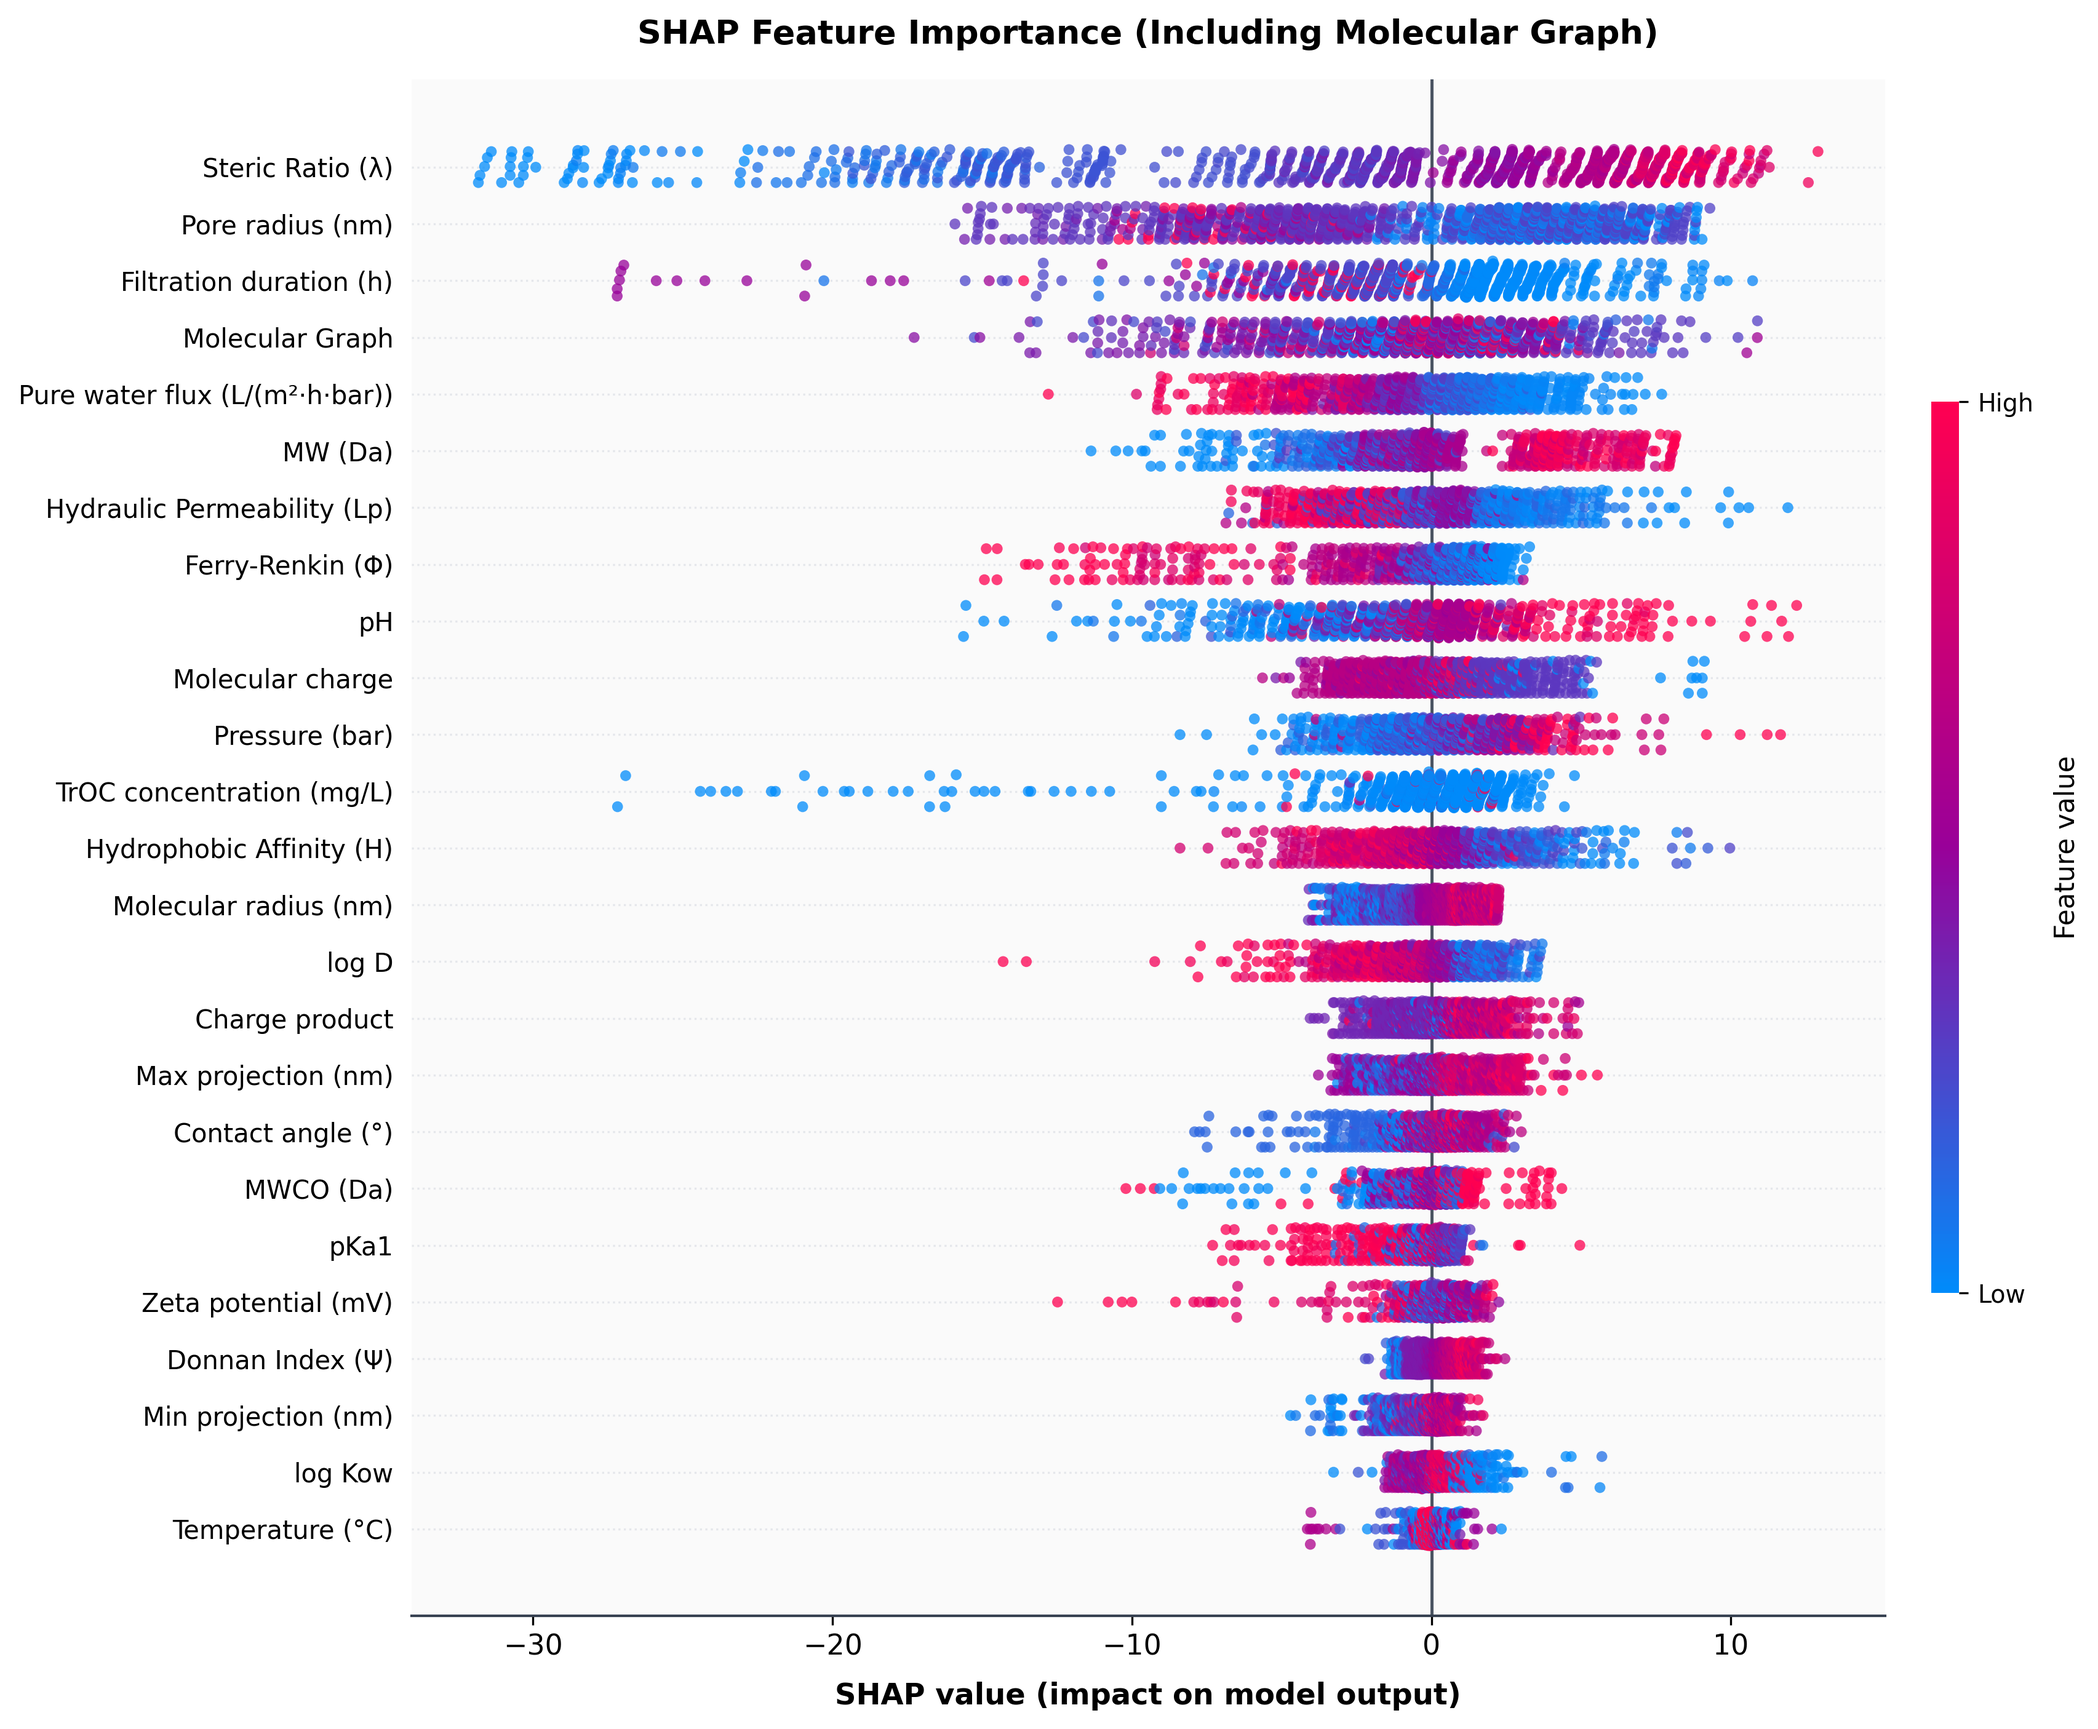
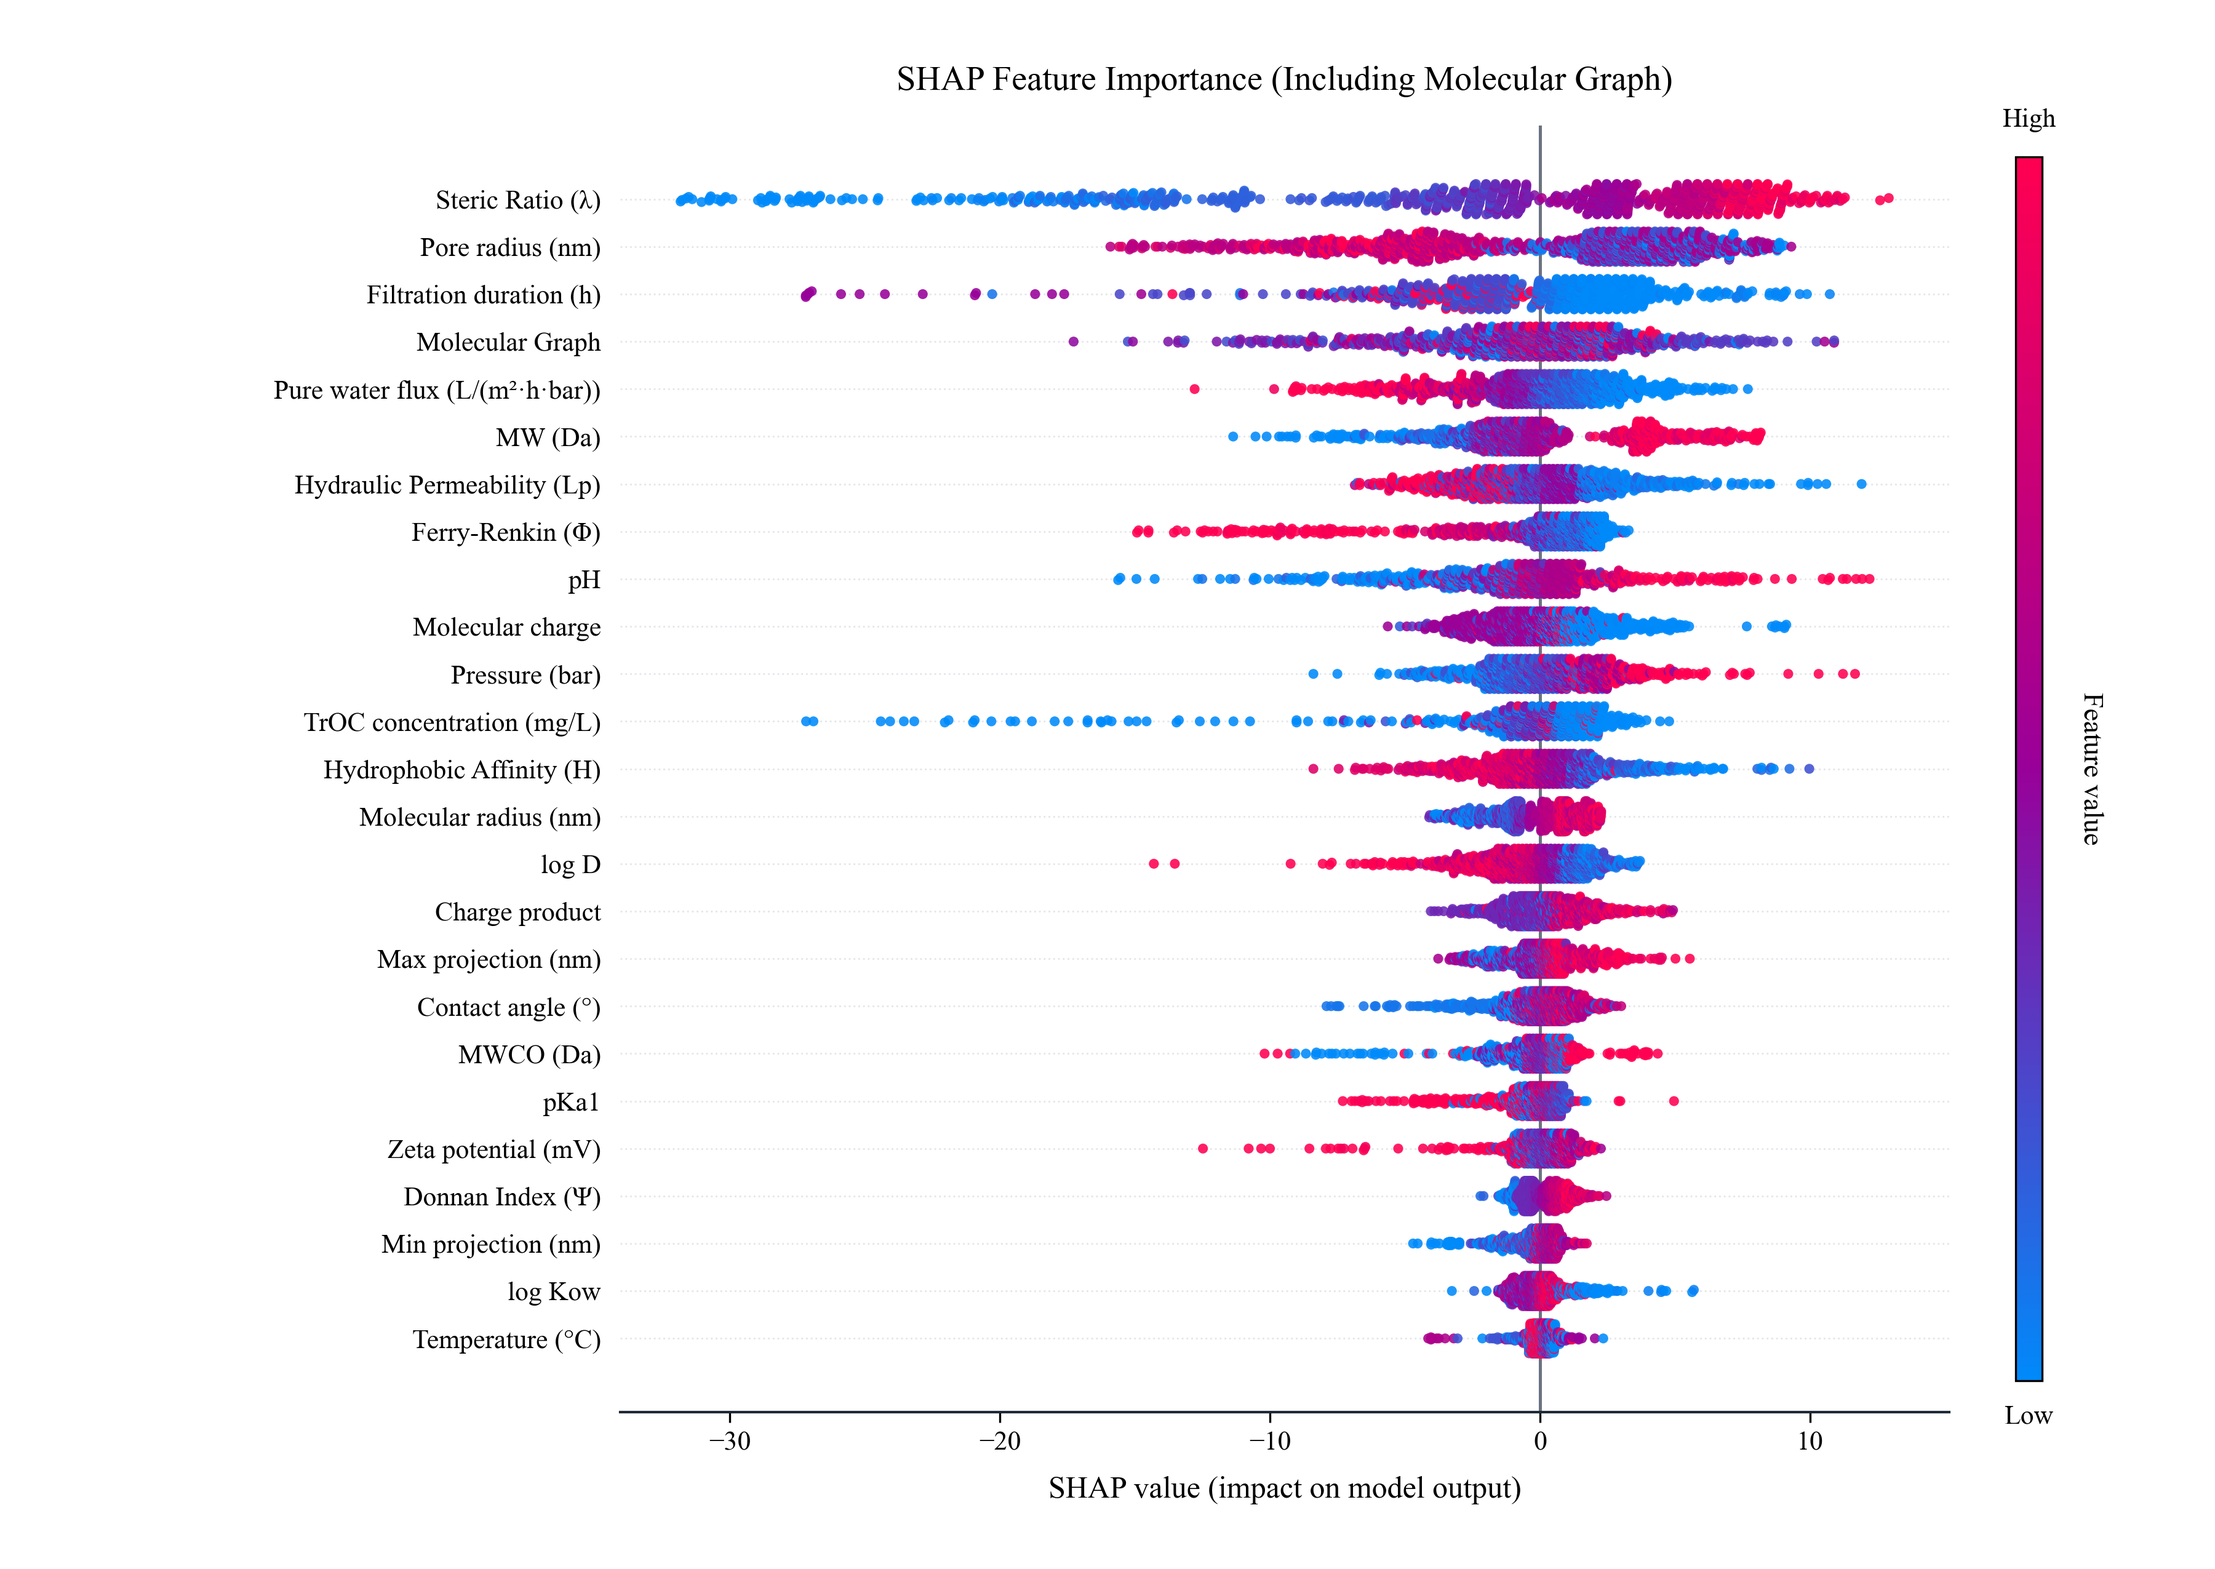
style(fig5): Match exact ACS ES&T Engineering Serif Beeswarm plot layout

diff --git a/src/generate_paper_figures.py b/src/generate_paper_figures.py
@@ -675,8 +675,8 @@ def generate_figure7(inf):
 # ==============================================================================
 
 def generate_figure5(data, models):
-    print("\n[Figure 5] SHAP Beeswarm Feature Importance (ACS ES&T Engineering Style) ...")
-    from matplotlib.colors import LinearSegmentedColormap
+    print("\n[Figure 5] SHAP Beeswarm Feature Importance (ACS ES&T Engineering Exact Style) ...")
+    from matplotlib.colors import LinearSegmentedColormap, Normalize
     import xgboost as xgb
     from rdkit import Chem, RDLogger
     from rdkit.Chem import AllChem
@@ -722,73 +722,95 @@ def generate_figure5(data, models):
     mean_abs = np.abs(shap_combined).mean(axis=0)
     order = np.argsort(mean_abs)[::-1]
 
-    # Custom SHAP Beeswarm Palette: Blue (Low) -> Purple -> Hot Pink / Red (High)
-    shap_cmap = LinearSegmentedColormap.from_list('shap_custom', ['#008BFB', '#990099', '#FF0051'], N=256)
+    # Official SHAP red-blue gradient
+    cdict = {
+        'red':   ((0.0, 0.0, 0.0), (0.5, 0.6, 0.6), (1.0, 1.0, 1.0)),
+        'green': ((0.0, 0.54, 0.54), (0.5, 0.0, 0.0), (1.0, 0.0, 0.0)),
+        'blue':  ((0.0, 0.98, 0.98), (0.5, 0.6, 0.6), (1.0, 0.32, 0.32))
+    }
+    shap_cmap = LinearSegmentedColormap('shap_official', cdict, N=256)
 
-    fig, ax = plt.subplots(figsize=(11.5, 9.5), dpi=DPI)
+    # Use serif font matching ACS ES&T
+    plt.rcParams['font.family'] = 'serif'
+    plt.rcParams['font.serif'] = ['Times New Roman', 'DejaVu Serif', 'Liberation Serif', 'Georgia']
+    plt.rcParams['mathtext.fontset'] = 'stix'
+
+    fig = plt.figure(figsize=(12, 8.8), dpi=DPI)
+    ax = fig.add_axes([0.28, 0.10, 0.60, 0.82])
+    cax = fig.add_axes([0.91, 0.12, 0.012, 0.78])
+
     n_samples = shap_combined.shape[0]
     n_feats = len(order)
 
+    # True beeswarm stacking
     for row_idx, f_idx in enumerate(reversed(order)):
         y_pos = row_idx
         sv = shap_combined[:, f_idx]
         fv = feat_combined[:, f_idx]
 
-        f_min, f_max = np.percentile(fv, 2), np.percentile(fv, 98)
+        f_min, f_max = np.percentile(fv, 5), np.percentile(fv, 95)
         if f_max > f_min:
             norm_val = np.clip((fv - f_min) / (f_max - f_min), 0, 1)
         else:
             norm_val = np.full_like(fv, 0.5)
 
-        sort_i = np.argsort(sv)
-        sv_s = sv[sort_i]
-        norm_s = norm_val[sort_i]
+        sort_idx = np.argsort(sv)
+        sv_sorted = sv[sort_idx]
+        norm_sorted = norm_val[sort_idx]
+
+        nbins = 120
+        hist, bin_edges = np.histogram(sv_sorted, bins=nbins)
+        bin_assignments = np.digitize(sv_sorted, bin_edges) - 1
+        bin_assignments = np.clip(bin_assignments, 0, nbins - 1)
 
         y_offsets = np.zeros(n_samples)
-        bins = np.linspace(sv_s.min() - 1e-5, sv_s.max() + 1e-5, 80)
-        bin_idx = np.digitize(sv_s, bins)
-        for b in np.unique(bin_idx):
-            mask = (bin_idx == b)
-            count = np.sum(mask)
-            if count > 1:
-                offsets = np.linspace(-0.28, 0.28, count)
-                offsets += np.random.RandomState(42).normal(0, 0.02, count)
-                y_offsets[mask] = np.clip(offsets, -0.35, 0.35)
+        for b in range(nbins):
+            pts_in_b = np.where(bin_assignments == b)[0]
+            k = len(pts_in_b)
+            if k == 1:
+                y_offsets[pts_in_b[0]] = 0
+            elif k > 1:
+                spread = min(0.32, k * 0.012)
+                y_offsets[pts_in_b] = np.linspace(-spread, spread, k)
 
-        ax.axhline(y_pos, color='#E5E7EB', linestyle=':', lw=0.8, zorder=1)
-        ax.scatter(sv_s, y_pos + y_offsets, c=norm_s, cmap=shap_cmap,
-                   s=18, alpha=0.75, edgecolors='none', zorder=3)
+        ax.axhline(y_pos, color='#E5E7EB', linestyle=':', lw=0.7, zorder=1)
+        ax.scatter(sv_sorted, y_pos + y_offsets, c=norm_sorted, cmap=shap_cmap,
+                   s=15, alpha=0.88, edgecolors='none', zorder=3)
 
-    ax.axvline(0, color='#4B5563', linestyle='-', lw=1.2, zorder=2)
+    ax.axvline(0, color='#6B7280', linestyle='-', lw=1.2, zorder=2)
 
     ordered_names = [feat_names[i] for i in reversed(order)]
     ax.set_yticks(range(n_feats))
-    ax.set_yticklabels(ordered_names, fontsize=10, fontweight='medium')
-    ax.set_xlabel('SHAP value (impact on model output)', fontsize=11.5, fontweight='bold', labelpad=8)
-    ax.set_title('SHAP Feature Importance (Including Molecular Graph)', fontsize=13, fontweight='bold', pad=14)
+    ax.set_yticklabels(ordered_names, fontsize=11, fontfamily='serif')
+    ax.set_xlabel('SHAP value (impact on model output)', fontsize=12, fontfamily='serif', fontweight='normal', labelpad=8)
+    ax.set_title('SHAP Feature Importance (Including Molecular Graph)', fontsize=13.5, fontfamily='serif', fontweight='normal', pad=14)
 
     ax.spines['top'].set_visible(False)
     ax.spines['right'].set_visible(False)
     ax.spines['left'].set_visible(False)
-    ax.spines['bottom'].set_color('#374151')
+    ax.spines['bottom'].set_color('#1F2937')
     ax.spines['bottom'].set_linewidth(1.0)
-    ax.tick_params(left=False)
+    ax.tick_params(left=False, direction='out', length=4, labelsize=10.5)
 
-    sm = plt.cm.ScalarMappable(cmap=shap_cmap, norm=Normalize(0, 1))
-    sm.set_array([])
-    cbar = fig.colorbar(sm, ax=ax, orientation='vertical', fraction=0.018, pad=0.03, aspect=32)
-    cbar.set_ticks([0, 1])
-    cbar.set_ticklabels(['Low', 'High'], fontsize=9.5, fontweight='medium')
-    cbar.set_label('Feature value', fontsize=10.5, fontweight='medium', labelpad=8)
-    cbar.outline.set_visible(False)
+    norm = Normalize(0, 1)
+    matplotlib.colorbar.ColorbarBase(cax, cmap=shap_cmap, norm=norm, orientation='vertical')
+    cax.set_yticks([])
+    cax.text(0.5, 1.02, 'High', transform=cax.transAxes, ha='center', va='bottom', fontsize=10.5, fontfamily='serif')
+    cax.text(0.5, -0.02, 'Low', transform=cax.transAxes, ha='center', va='top', fontsize=10.5, fontfamily='serif')
+    cax.set_ylabel('Feature value', fontsize=11, fontfamily='serif', labelpad=14, rotation=270, va='bottom')
+    cax.spines['top'].set_visible(False)
+    cax.spines['right'].set_visible(False)
+    cax.spines['bottom'].set_visible(False)
+    cax.spines['left'].set_visible(False)
 
-    plt.tight_layout()
     save_path = os.path.join(OUT_DIR, "figure5_shap_importance.png")
-    fig.savefig(save_path, dpi=DPI, bbox_inches='tight')
+    fig.savefig(save_path, dpi=DPI)
     plt.close(fig)
     print(f"  -> Saved SHAP Beeswarm to: {save_path}")
 
-    # Export ranking CSV
+    # Reset font to sans-serif for remaining figures
+    plt.rcParams['font.family'] = 'DejaVu Sans'
+
     feat_df = pd.DataFrame({
         'Feature': [feat_names[i] for i in order],
         'Mean_Absolute_SHAP': [mean_abs[i] for i in order]
